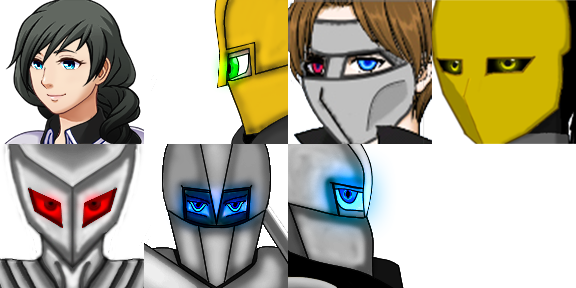
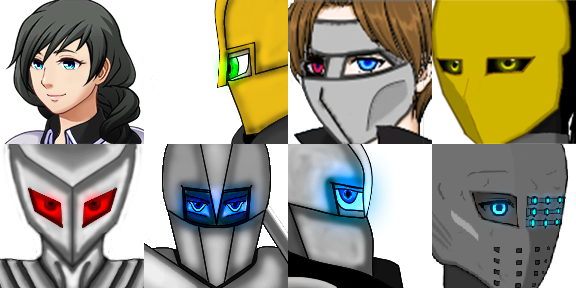
Добавила фейс Зеда; исправила Ошибку в Профиле)

Changed region(s): [[0.75, 0.5, 1.0, 1.0]]

diff --git a/js/plugins.js b/js/plugins.js
@@ -21,7 +21,7 @@ var $plugins =
 {"name":"SelfSwitcher","status":true,"description":"Этот плагин позволит манипулировать локальными переключателями на других картах","parameters":{}},
 {"name":"SwitchesAndVariables","status":true,"description":"Упрощение работы с переключателями, локальными переключателями и переменными.","parameters":{}},
 {"name":"BlockMove","status":true,"description":"","parameters":{}},
-{"name":"SRD_FullscreenToggleOption","status":false,"description":"Adds a Fullscreen Toggle to the Options Window","parameters":{"Option Name":"Fullscreen","Position":"Middle","Default Value":"true","Persist Default?":"true"}},
+{"name":"SRD_FullscreenToggleOption","status":true,"description":"Adds a Fullscreen Toggle to the Options Window","parameters":{"Option Name":"Fullscreen","Position":"Middle","Default Value":"true","Persist Default?":"true"}},
 {"name":"YuryolStealth","status":true,"description":"Стелс (зрение событий)","parameters":{"circle":"true"}},
 {"name":"TerraxLighting","status":true,"description":"v1.5.1 Creates an extra layer that darkens a map and adds lightsources!","parameters":{"Player radius":"0","Add to options":"No","Option menu entry":"Lighting effects","Reset Lights":"No","Save DaynightHours":"0","Save DaynightMinutes":"0","Save DaynightSeconds":"0","Flashlight offset":"1","Screensize X":"924","Screensize Y":"724","Kill Switch":"No"}},
 {"name":"MOG_AnimatedText","status":true,"description":"(v1.3) Apresenta multiplos textos animados.","parameters":{"Letter Space X-Axis":"0","Letter Space Y-Axis":"0"}},
